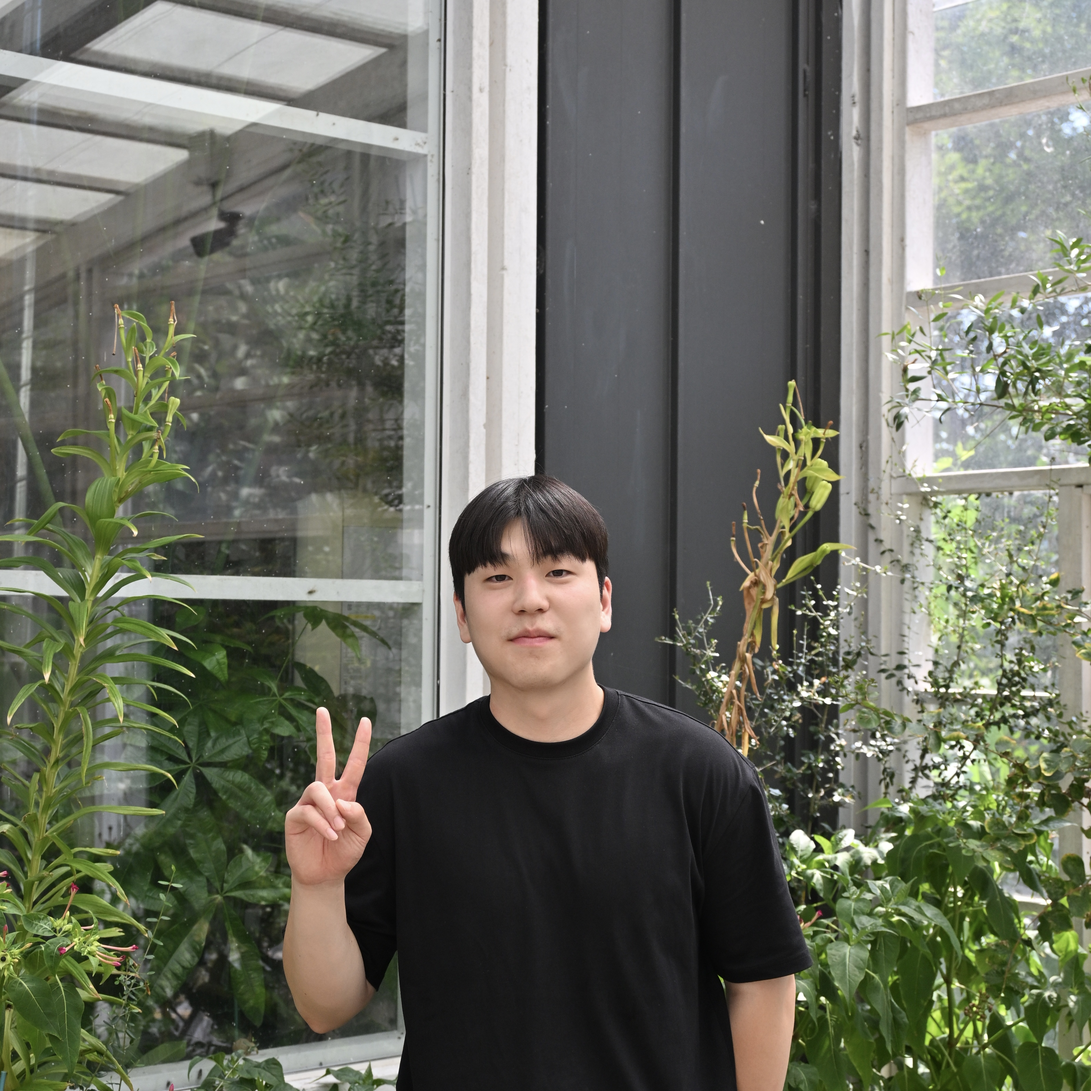
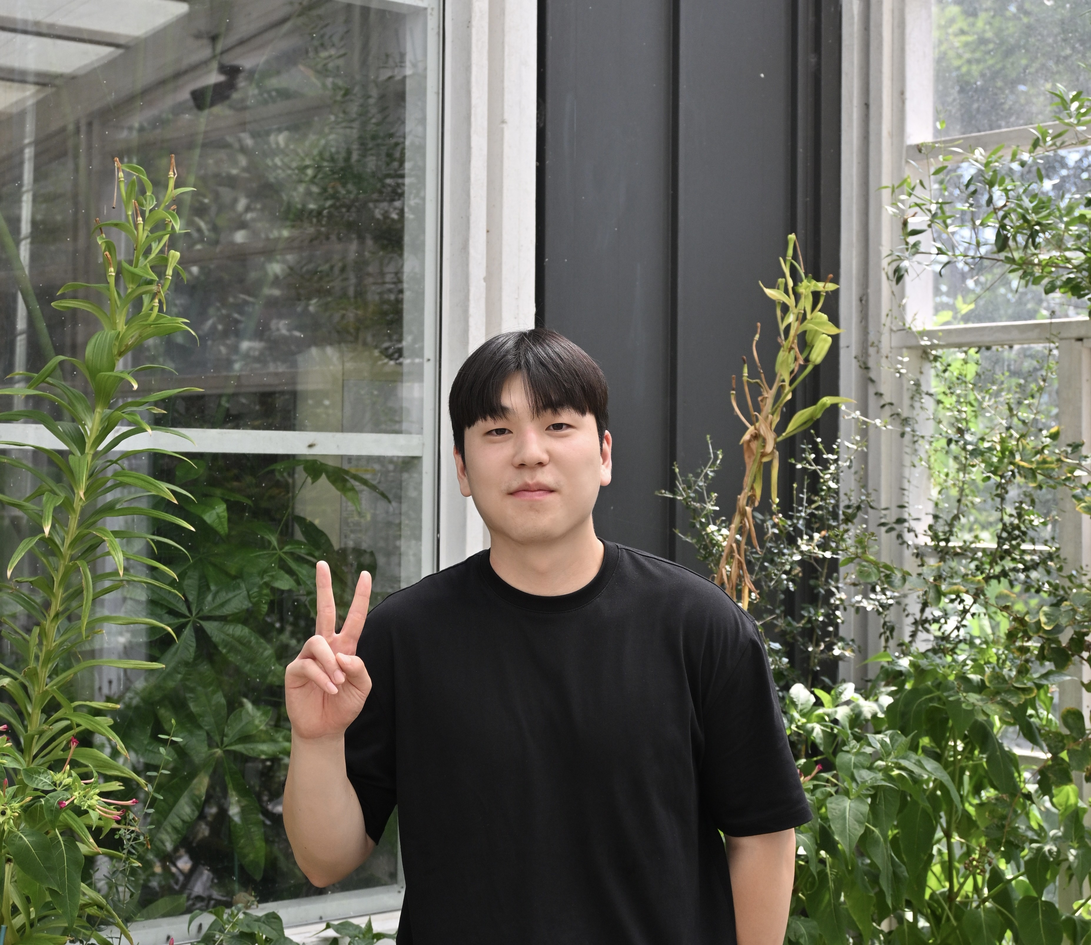
content: member 사진 조정 2

diff --git a/_members/jimin-kwon.md b/_members/jimin-kwon.md
@@ -7,7 +7,7 @@ role: Principal Investigator (PI)
 
 photo_by_term:
   "2026-spring": /assets/img/members/2025-summer/jimin.jpg
-  "2026-summer": /assets/img/members/2026-summer/교수님.jpg
+  "2026-summer": /assets/img/members/2026-summer/교수님.jp
 terms:
   - "2026-spring"
   - "2026-summer"

diff --git a/_members/hyeongjun-kim.md b/_members/hyeongjun-kim.md
@@ -7,7 +7,7 @@ role: CP Team
 
 photo_by_term:
   "2026-spring": /assets/img/members/2026-spring/김형준.jpg
-  "2026-summer": /assets/img/members/2026-summer/김형준.jpg
+  "2026-summer": /assets/img/members/2026-summer/김형준.jp
 terms:
   - "2026-spring"
   - "2026-summer"

diff --git a/_members/hyeonho-gu.md b/_members/hyeonho-gu.md
@@ -7,7 +7,7 @@ role: TD team
 
 photo_by_term:
   "2026-spring": /assets/img/members/2026-spring/구현호.jpg
-  "2026-summer": /assets/img/members/2026-summer/구현호.jpg
+  "2026-summer": /assets/img/members/2026-summer/구현호.jp
 terms:
   - "2026-spring"
   - "2026-summer"

diff --git a/_members/eunchae-choi.md b/_members/eunchae-choi.md
@@ -6,7 +6,7 @@ group: students     # pi / students / alumni
 role: TD Team
 
 photo_by_term:
-  "2026-summer": /assets/img/members/2026-summer/최은채.jpg
+  "2026-summer": /assets/img/members/2026-summer/최은채.jp
 terms:
   - "2026-summer"
 
